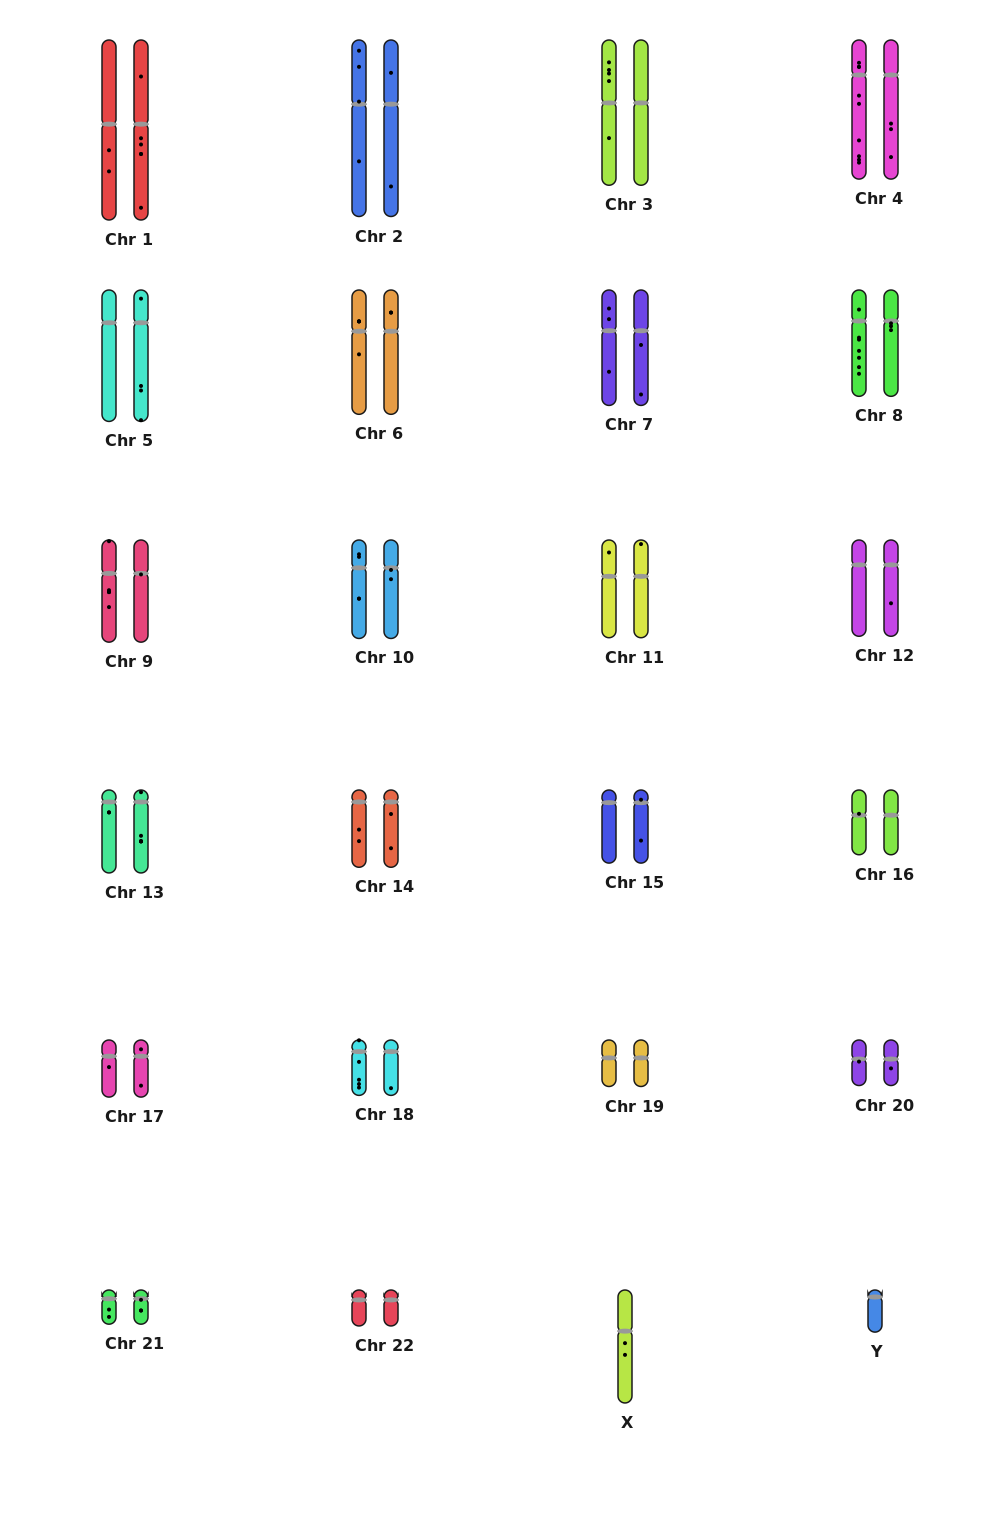
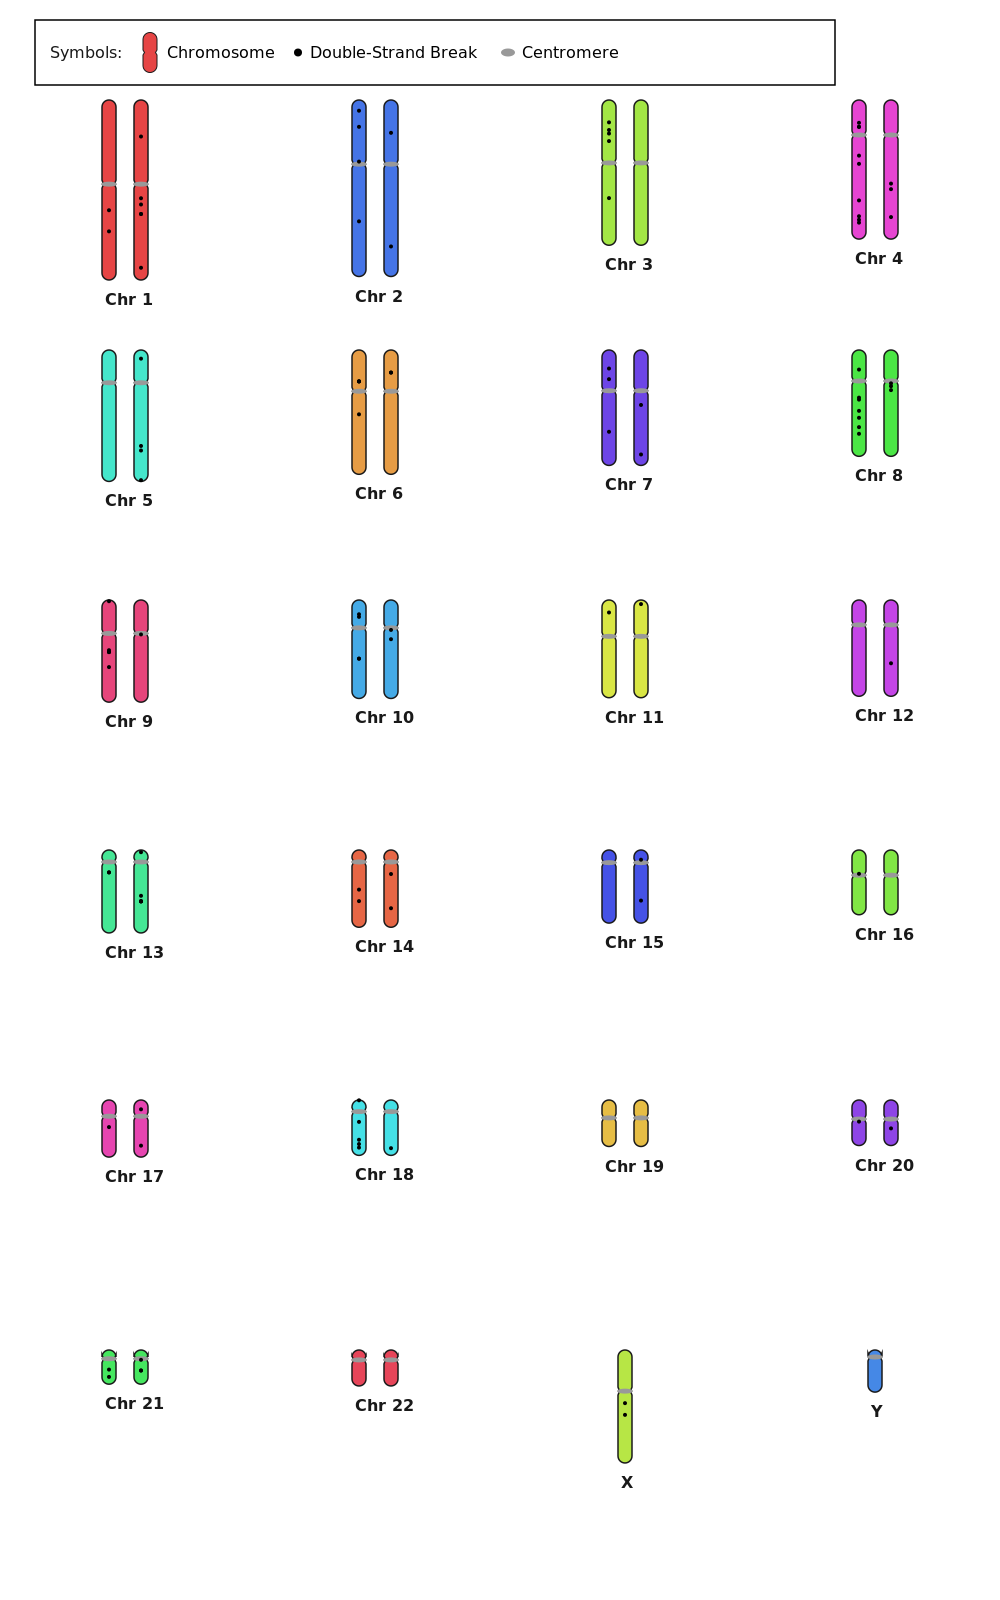
Added function to draw Karyogram legend containing symbol descriptions, and updated Karyogram image with the new legend.

diff --git a/source/Karyogram.cpp b/source/Karyogram.cpp
@@ -145,7 +145,7 @@ bool Karyogram::generateKaryogram(						// Function that generates the overall K
     const int columns = 4;							// Desired number of columns in the karyogram
     const double colWidth = static_cast<double>(imgWidth) / columns;		// Column width also in number of pixels
     const double rowHeight = 250.0;						// Row height in number of pixels
-    const double startY = 40.0;							// Choosing the starting Y position for the first row of chromosomes
+    const double startY = 100.0;	// 40 for no legend						// Choosing the starting Y position for the first row of chromosomes
     const int rows = (homologousPairs + columns - 1) / columns;			// Determine number of rows based on number of chromosomes passed.
     const int imgHeight = static_cast<int>(startY + rows * rowHeight);		// Adjust image height based on the number of rows, also in pixels.
     const double maxRenderHeight = 180.0;					// Limit the maximum height of the image, also in pixels
@@ -169,6 +169,11 @@ bool Karyogram::generateKaryogram(						// Function that generates the overall K
 
     cairo_set_source_rgb(cr, 1.0, 1.0, 1.0);					// White background
     cairo_paint(cr);
+
+    // ----------------------------------------------------
+    // Draw Karyogram legend
+    // ----------------------------------------------------
+    drawLegend(cr);
 
     // -------------------------------------------
     // Draw homologous chromosome pairs first
@@ -511,9 +516,9 @@ bool Karyogram::generateKaryogram(						// Function that generates the overall K
 }
 
 
-// ----------------------------------------------------------------------------------- //
-// --- Functions to draw individual chromosome shapes and choose chromosome colors --- //
-// ----------------------------------------------------------------------------------- //
+// ----------------------------------------------------------------------- //
+// --- Helper functions to draw the shapes within the Karyogram itself --- //
+// ----------------------------------------------------------------------- //
 void Karyogram::drawChromosome(
     cairo_t* cr,
     double x,						// Pixel X coordinate
@@ -762,6 +767,340 @@ void Karyogram::drawDamageMarker(
 
     cairo_fill(cr);
 }
+
+
+void Karyogram::drawLegend(cairo_t* cr)
+{
+    // --------------------------------------------------
+    // Legend position
+    // --------------------------------------------------
+
+    const double legendX = 50.0;
+    const double legendY = 55.0;
+
+    // --------------------------------------------------
+    // Legend border
+    // --------------------------------------------------
+
+    const double legendWidth = 800.0;
+    const double legendHeight = 65.0;
+
+    const double borderPaddingX = 15.0;
+    const double borderPaddingY = 10.0;
+
+    // Center chromosome vertically inside legend
+    const double legendTop = legendY - 25.0 - borderPaddingY;
+    const double legendCenterY = legendTop + legendHeight / 2.0;
+
+    cairo_set_source_rgb(
+        cr,
+        0.0,
+        0.0,
+        0.0
+    );
+
+    cairo_set_line_width(cr, 1.5);
+
+    cairo_rectangle(
+        cr,
+        legendX - borderPaddingX,
+        legendY - 25.0 - borderPaddingY,
+        legendWidth,
+        legendHeight
+    );
+
+    cairo_stroke(cr);
+
+
+    cairo_set_source_rgb(
+        cr,
+        0.1,
+        0.1,
+        0.1
+    );
+
+    cairo_select_font_face(
+        cr,
+        "Sans",
+        CAIRO_FONT_SLANT_NORMAL,
+        CAIRO_FONT_WEIGHT_NORMAL
+    );
+
+    cairo_set_font_size(cr, 16.0);
+
+    // Centering legend labels
+    cairo_font_extents_t fontExtents;
+    cairo_font_extents(cr, &fontExtents);
+
+    const double textBaseline = legendCenterY +
+    (fontExtents.ascent - fontExtents.descent) / 2.0;
+
+    // --------------------------------------------------
+    // Legend title
+    // --------------------------------------------------
+
+    cairo_move_to(
+        cr,
+        legendX,
+        textBaseline
+    );
+
+    cairo_show_text(
+        cr,
+        "Symbols:"
+    );
+
+
+    // -------------------------------------------------
+    // Draw generic chromosome symbole
+    // -------------------------------------------------
+
+    const double chromosomeWidth = 14.0;
+    const double chromosomeHeight = 40.0;
+
+    // Position chromosome by its center
+    const double chromosomeCenterX = legendX + 100.0;
+    const double chromosomeX = chromosomeCenterX - chromosomeWidth / 2.0;
+    const double chromosomeY = legendCenterY - chromosomeHeight / 2.0;
+
+    // Generic centromere location
+    const double centromereCenter = 0.5;
+    const double constrictionAmount = 1.5;
+    const double capRadius = chromosomeWidth / 2.0;
+    const double centerY = chromosomeY + chromosomeHeight * centromereCenter;
+    const double constrictionHeight = 5.0;
+    const double constrictionTop = centerY - constrictionHeight / 2.0;
+    const double constrictionBottom = centerY + constrictionHeight / 2.0;
+
+    cairo_new_path(cr);
+
+    // Top cap
+    cairo_arc(
+        cr,
+        chromosomeX + capRadius,
+        chromosomeY + capRadius,
+        capRadius,
+        M_PI,
+        2.0 * M_PI
+    );
+
+    // Right side
+    cairo_line_to(
+        cr,
+        chromosomeX + chromosomeWidth,
+        constrictionTop
+    );
+
+    cairo_line_to(
+        cr,
+        chromosomeX + chromosomeWidth - constrictionAmount,
+        centerY
+    );
+
+    cairo_line_to(
+        cr,
+        chromosomeX + chromosomeWidth,
+        constrictionBottom
+    );
+
+    cairo_line_to(
+        cr,
+        chromosomeX + chromosomeWidth,
+        chromosomeY + chromosomeHeight - capRadius
+    );
+
+    // Bottom cap
+    cairo_arc(
+        cr,
+        chromosomeX + capRadius,
+        chromosomeY + chromosomeHeight - capRadius,
+        capRadius,
+        0.0,
+        M_PI
+    );
+
+    // Left side
+    cairo_line_to(
+        cr,
+        chromosomeX,
+        constrictionBottom
+    );
+
+    cairo_line_to(
+        cr,
+        chromosomeX + constrictionAmount,
+        centerY
+    );
+
+    cairo_line_to(
+        cr,
+        chromosomeX,
+        constrictionTop
+    );
+
+    cairo_close_path(cr);
+
+    // Generic chromosome colour
+    RGB chromosomeColor =
+        generateChromosomeColor(0);
+
+    cairo_set_source_rgb(
+        cr,
+        chromosomeColor.r,
+        chromosomeColor.g,
+        chromosomeColor.b
+    );
+
+    cairo_fill_preserve(cr);
+
+    // Outline
+    cairo_set_source_rgb(
+        cr,
+        0.1,
+        0.1,
+        0.1
+    );
+
+    cairo_set_line_width(cr, 1.0);
+
+    cairo_stroke(cr);
+
+    // Chromosome label
+    cairo_set_source_rgb(
+        cr,
+        0.0,
+        0.0,
+        0.0
+    );
+
+    cairo_move_to(
+        cr,
+        chromosomeX + chromosomeWidth + 10.0,
+        textBaseline
+    );
+
+    cairo_show_text(
+        cr,
+        "Chromosome"
+    );
+
+
+    // --------------------------------------------------
+    // DSB marker symbol
+    // --------------------------------------------------
+
+    const double dsbX =
+        chromosomeX + 155.0;
+
+    const double dsbY =
+        legendCenterY;
+
+    cairo_set_source_rgb(
+        cr,
+        0.0,
+        0.0,
+        0.0
+    );
+
+    cairo_arc(
+        cr,
+        dsbX,
+        dsbY,
+        4.0,
+        0.0,
+        2.0 * M_PI
+    );
+
+    cairo_fill(cr);
+
+    // DSB label
+    cairo_set_source_rgb(
+        cr,
+        0.0,
+        0.0,
+        0.0
+    );
+
+    cairo_move_to(
+        cr,
+        dsbX + 12.0,
+        textBaseline
+    );
+
+    cairo_show_text(
+        cr,
+        "Double-Strand Break"
+    );
+
+
+    // --------------------------------------------------
+    // Centromere marker symbol
+    // --------------------------------------------------
+
+    const double centromereX =
+        dsbX + 210.0;
+
+    const double centromereY =
+        legendCenterY;
+
+    const double ellipseWidth = 14.0;
+    const double ellipseHeight = 8.0;
+
+    cairo_save(cr);
+
+    cairo_translate(
+	cr,
+	centromereX,
+	centromereY
+    );
+
+    cairo_scale(
+	cr,
+	ellipseWidth / 2.0,
+	ellipseHeight / 2.0
+    );
+
+    cairo_arc(
+        cr,
+        0.0,
+        0.0,
+        1.0,
+        0.0,
+        2.0 * M_PI
+    );
+
+    cairo_restore(cr);
+
+    // Gray fill
+    cairo_set_source_rgb(
+        cr,
+        0.6,
+        0.6,
+        0.6
+    );
+
+    cairo_fill_preserve(cr);
+
+    // Centromere label
+    cairo_set_source_rgb(
+	cr,
+	0.0,
+	0.0,
+	0.0
+    );
+
+    cairo_move_to(
+        cr,
+        centromereX + 14.0,
+        textBaseline
+    );
+
+    cairo_show_text(
+        cr,
+        "Centromere"
+    );
+}
+
 
 // ---------------------------------------------------------------------------------------- //
 // --------------- Helper functions to convert exposure data to karyogram ----------------- //

diff --git a/include/Karyogram.h b/include/Karyogram.h
@@ -60,4 +60,5 @@ private:
 
     const CentromerePosition* getHumanCentromere(int chromosomeID);		// Returns a chromosome's corresponding centromere start and end locations to draw the centromere ellipse on the karyogram.
 
+    void drawLegend(cairo_t* cr);						// Function to draw the karyogram legend.
 };
